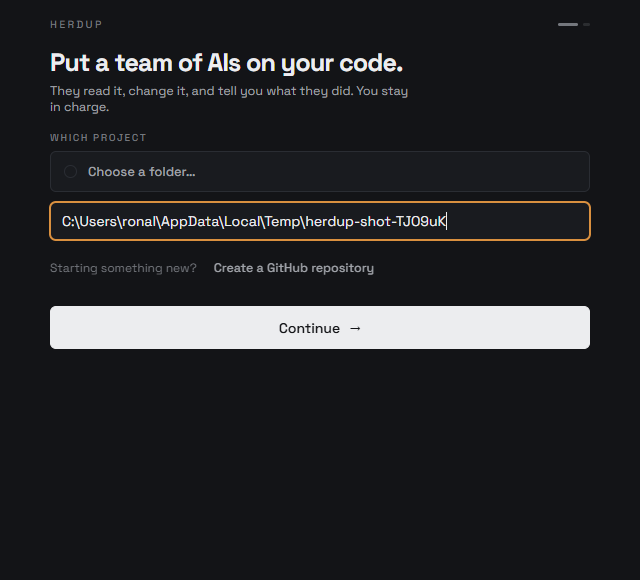
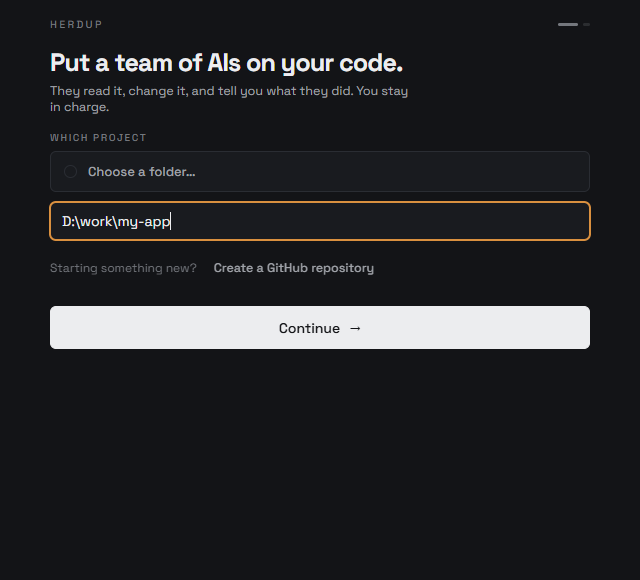
Keep real paths and real projects out of the published screenshots
The landing-page screenshots showed the demo project living in %TEMP%, which
on Windows contains the account name -- so a public page was displaying the
user's username in a path like C:\Users\<name>\AppData\Local\Temp\herdup-shot-*.

The capture now builds its demo repo as a sibling of the repo (D:\work\my-app):
short, ordinary-looking, nothing personal. It never reuses an existing folder
and only removes what it created.

Worse, a recapture surfaced a live workspace in the "Already running" list --
a real project, its name and full path, about to be published. The capture now
runs against an isolated herdr session via a new HERDUP_SESSION override. A
named session gets its own socket AND state dir, so the list is empty by
construction and a real user's teams can never appear. That override also gives
the harness proper isolation, which is the guardrail rule this project already
follows everywhere else.

localStorage is cleared before capturing, so recent projects remembered from an
earlier run cannot leak either.

166 Rust tests, 15/15 GUI checks, fmt and clippy clean.

Changed region(s): [[0.0938, 0.3724, 0.7188, 0.4034]]

diff --git a/app/src-tauri/src/lib.rs b/app/src-tauri/src/lib.rs
@@ -20,7 +20,21 @@ use std::sync::Mutex;
 use std::time::Duration;
 use tauri::{Emitter, Manager, State};
 
-const SESSION: &str = "herdup";
+const DEFAULT_SESSION: &str = "herdup";
+
+/// The herdr session herdup owns.
+///
+/// Overridable via `HERDUP_SESSION` so the test harness and the screenshot
+/// capture can run against an isolated session. A named session gets its own
+/// socket *and* its own state directory, so an override cannot see — or be
+/// seen by — the teams a real user is running. That isolation is also why the
+/// published screenshots never contain somebody's actual project.
+fn session() -> String {
+    std::env::var("HERDUP_SESSION")
+        .ok()
+        .filter(|s| !s.trim().is_empty())
+        .unwrap_or_else(|| DEFAULT_SESSION.to_string())
+}
 
 // ---------------------------------------------------------------------------
 // DTOs
@@ -220,7 +234,7 @@ pub struct AppState {
 
 fn client() -> Result<HerdrCli, String> {
     HerdrCli::discover()
-        .map(|c| c.with_session(SESSION))
+        .map(|c| c.with_session(session()))
         .map_err(|e| e.to_string())
 }
 
@@ -736,7 +750,7 @@ fn outcome_dto(outcome: &Outcome) -> OutcomeDto {
         briefed: outcome.briefed(),
         failure: outcome.failure.as_ref().map(|f| f.message.clone()),
         failed_step: outcome.failure.as_ref().map(|f| f.description.clone()),
-        session: SESSION.into(),
+        session: session(),
     }
 }
 
@@ -837,7 +851,7 @@ async fn attach_workspace(workspace_id: String, path: Option<String>) -> Result<
             .unwrap_or_else(|| std::env::current_dir().unwrap_or_else(|_| PathBuf::from(".")));
         match launcher_core::terminal::open_with_fallback(
             &dir,
-            Some(SESSION),
+            Some(&session()),
             settings.terminal.as_deref(),
         ) {
             Ok(h) => Ok(h.display()),
@@ -860,7 +874,7 @@ fn open_terminal_blocking(project: String) -> Result<String, String> {
     let path = PathBuf::from(project);
     match launcher_core::terminal::open_with_fallback(
         &path,
-        Some(SESSION),
+        Some(&session()),
         settings.terminal.as_deref(),
     ) {
         Ok(h) => Ok(h.display()),
